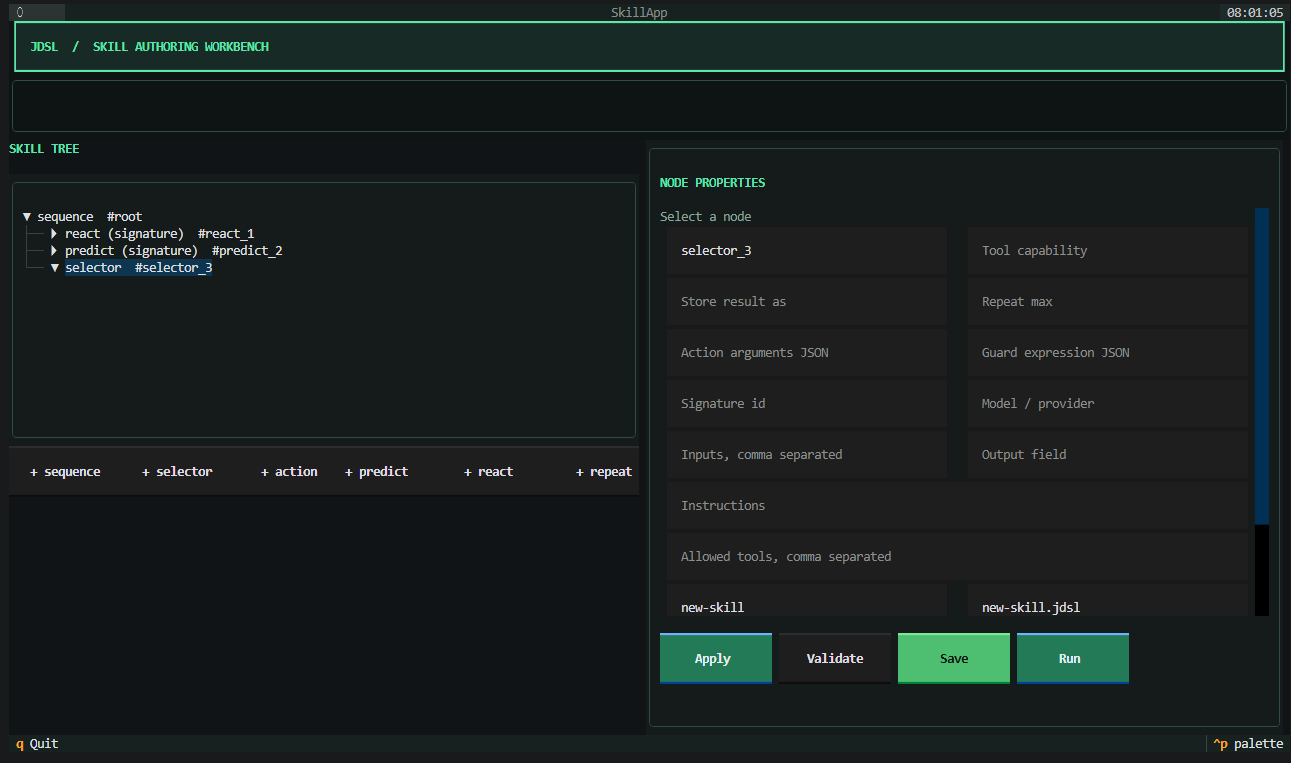
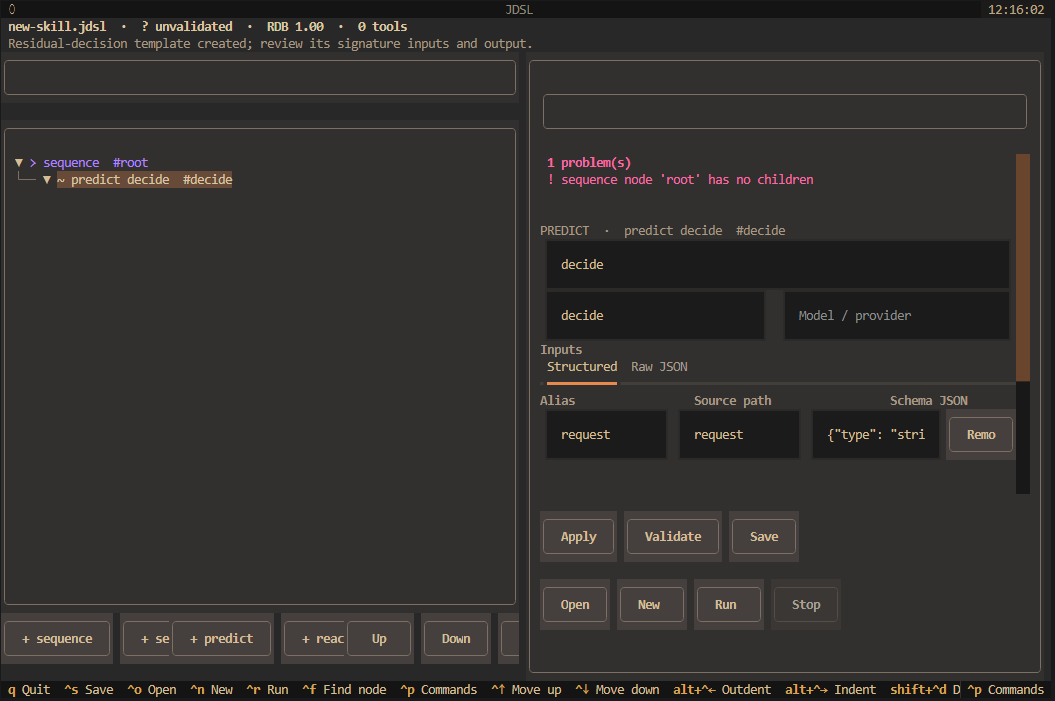
update TUI docs

diff --git a/test/test_tui.py b/test/test_tui.py
@@ -7,9 +7,10 @@ import hashlib
 
 import pytest
 
-from jdsl.ir import IRAction, IRGuard, IRPredict, IRSequence, Signature, SignatureInput, SignatureOutput
-from jdsl.tui.commands import WorkbenchCommands
+from jdsl.ir import IRAction, IRPredict, IRSequence, Signature, SignatureInput, SignatureOutput
+from jdsl.package import ToolContract, ToolEffects
 from jdsl.tui import SkillApp
+from jdsl.tui.commands import WorkbenchCommands
 from jdsl.tui.settings import TUISettings
 
 
@@ -93,6 +94,21 @@ def test_tui_starts_in_authoring_workspace():
     asyncio.run(exercise())
 
 
+def test_command_palette_binding_is_registered():
+    assert ("ctrl+p", "command_palette", "Commands") in SkillApp.BINDINGS
+
+
+def test_tui_shows_resize_warning_below_minimum_terminal_size():
+    async def exercise() -> None:
+        async with SkillApp().run_test(size=(79, 23)) as pilot:
+            warning = pilot.app.query_one("#resize-warning")
+            assert warning.styles.display == "block"
+            assert pilot.app.skill_workbench.styles.display == "none"
+            assert "80 x 24" in str(warning.render())
+
+    asyncio.run(exercise())
+
+
 def test_tui_shows_validation_status():
     async def exercise() -> None:
         async with SkillApp().run_test() as pilot:
@@ -103,10 +119,39 @@ def test_tui_shows_validation_status():
     asyncio.run(exercise())
 
 
+def test_validation_shows_non_blocking_quality_hints():
+    async def exercise() -> None:
+        async with SkillApp().run_test() as pilot:
+            workbench = pilot.app.skill_workbench
+            workbench.tool_contracts["delete_customer"] = ToolContract(
+                logical_id="delete_customer",
+                effects=ToolEffects(read_only=False, destructive=True, idempotent=False),
+            )
+            workbench.skill_ir.root.children_.append(
+                IRAction(type="action", id="delete", tool="delete_customer")
+            )
+
+            assert workbench.validate_skill()
+
+            rendered = str(pilot.app.query_one("#skill-problems").render())
+            assert "Quality hints" in rendered
+            assert "Destructive action 'delete' has no earlier guard" in rendered
+
+            workbench.skill_ir.signatures["unused"] = Signature(id="unused")
+            assert not workbench.validate_skill()
+            rendered = str(pilot.app.query_one("#skill-problems").render())
+            assert "Signature 'unused' is unused" in rendered
+            assert "has no declared inputs" in rendered
+            assert workbench.valid is False
+
+    asyncio.run(exercise())
+
+
 def test_validate_button_updates_status():
     async def exercise() -> None:
         async with SkillApp().run_test() as pilot:
-            await pilot.click("#validate-skill")
+            workbench = pilot.app.skill_workbench
+            workbench.validate_skill()
             status = pilot.app.query_one("#skill-status")
             assert "Validation failed" in str(status.render())
 
@@ -153,10 +198,35 @@ def test_repeat_child_can_be_removed_and_ids_stay_unique():
 
 def test_workbench_preferences_persist(monkeypatch, tmp_path):
     monkeypatch.setenv("XDG_CONFIG_HOME", str(tmp_path))
-    settings = TUISettings(reduced_motion=True, ascii_glyphs=False)
+    settings = TUISettings(
+        reduced_motion=True,
+        ascii_glyphs=False,
+        run_inputs={"skill.jdsl": {"customer_id": "cust-7"}},
+    )
     settings.save()
 
     assert TUISettings.load() == settings
+
+
+def test_run_inputs_load_saved_values_for_current_skill():
+    async def exercise() -> None:
+        async with SkillApp().run_test() as pilot:
+            workbench = pilot.app.skill_workbench
+            workbench.app.settings.run_inputs[workbench._run_input_key()] = {"customer_id": "cust-7"}
+            workbench.skill_ir.root.children_.append(
+                IRAction(
+                    type="action",
+                    id="lookup",
+                    tool="lookup",
+                    arguments={"customer_id": {"ref": "customer_id"}},
+                )
+            )
+
+            workbench._refresh_run_inputs()
+
+            assert pilot.app.query_one("#run-input-value-0").value == "cust-7"
+
+    asyncio.run(exercise())
 
 
 def test_run_confirms_tools_and_executes_in_worker(monkeypatch, tmp_path):

diff --git a/docs/tui.md b/docs/tui.md
@@ -1,18 +1,28 @@
 # JDSL TUI
 
-The TUI currently focuses on authoring skills. It edits the restricted Behavior
-IR used by `.jdsl` packages; harness capture and compilation remain available
-through their separate CLI and APIs.
+The TUI is the primary authoring surface for building and validating restricted
+Behavior IR packages. It covers the day-to-day flow of creating a skill, editing
+node structure and properties, validating that the tree remains coherent, and
+running a tool-backed skill in a safe, traceable way.
 
 <p align="center">
-	<img src="tui.png" alt="JDSL skill authoring TUI" width="960" />
+  <img src="tui.png" alt="JDSL skill authoring TUI" width="960" />
 </p>
 
-The workbench keeps the tree visible on the left and the selected node's
-properties on the right. The properties form scrolls independently on smaller
-terminals.
+## Workbench overview
 
-## Start
+The workbench is laid out around a few clear regions:
+
+- a tree view on the left showing the current skill structure,
+- a property inspector on the right for the selected node,
+- a validation and status area for warnings and recovery hints,
+- a run panel for tool imports, inputs, and execution tracing,
+- a command palette and keyboard bindings for fast editing.
+
+The app retains a compact terminal-first layout, so it is designed to work well
+in real terminals without wasting vertical space on oversized chrome.
+
+## Start the TUI
 
 Install the optional TUI dependency:
 
@@ -28,35 +38,122 @@ uv sync
 uv run --extra tui jdsl tui
 ```
 
-## Author a Skill
+## Author a skill
 
-Launching `jdsl tui` opens the skill editor directly. Select a node and
-configure its properties, then add children from the node palette. The
-editor supports sequence, selector, action, guard, predict, react, and repeat
-nodes. Predict and react leaves expose their signature inputs, output,
-instructions, model/provider hint, and react tool set.
+Launching `jdsl tui` opens a blank or previously opened skill directly into the
+workbench. From there you can:
 
-Inspector changes apply after a short pause. **Validate** runs the same
-structural checks used by the package loader. **Save** writes a portable package
-and loads it again to verify the serialized artifact. **Open** loads a verified
-package, and **New** starts a blank skill; both prompt before discarding dirty
-edits. The output contains restricted IR and capability contracts, not arbitrary
-Python code.
+- select a node and edit its id, type, tools, guards, model hints, and metadata,
+- add children from the node palette or command palette,
+- reorder, indent, outdent, duplicate, and copy/paste subtrees,
+- review validation warnings and structural quality hints before saving.
 
-**Run** accepts a Python tools module defining `TOOLS` and an optional
-`PREDICATES` mapping, plus comma-separated `key=value` inputs. The workbench
-asks before importing a tools module and remembers approval by file path and
-content hash. Runs execute in a worker, with progress and node status streamed
-to the trace panel. Tool arguments and results are not printed in that log.
+Supported node types include sequence, selector, action, guard, predict, react,
+and repeat. Predict and react nodes expose signature-related metadata, provider
+hints, output names, instructions, and tool sets in the inspector.
 
-`Ctrl+S` saves, `Ctrl+O` opens, `Ctrl+N` creates a skill, `Ctrl+R` runs,
-`Ctrl+Z` undoes, and `Ctrl+Shift+Z` redoes. `Ctrl+M` toggles reduced motion;
-`Ctrl+G` switches ASCII-safe and Unicode node glyphs. Truecolor terminals are
-recommended (`COLORTERM=truecolor`).
+The **New** action offers four starting points: a blank skill, lookup then act,
+model decision, and guarded write. The inspector changes with the selected node;
+action arguments, guard expressions, signatures, and run inputs have structured
+editors with a **Raw JSON** view for values that need direct editing.
 
-Harness capture and compilation remain available through the commands documented
-in [Harness Usage](harness_usage.md). They are intentionally outside this TUI
-while the skill authoring workflow is being developed.
+Use **Definitions** to edit each logical tool capability's description,
+arguments, and effect (`read-only`, `write`, or `destructive`). Its Signatures
+tab shows declared signatures and where they are used. Edit signature details
+from the inspector of a predict or react node.
+
+## Save, open, and new flows
+
+The app is designed around safe editing and recovery:
+
+- **Save** writes a portable `.jdsl` package and reloads it to confirm the
+  serialized artifact remains valid,
+- **Open** loads a verified package,
+- **New** creates one of the available templates,
+- unsaved changes prompt before discard or close,
+- recently opened packages are available in the workbench,
+- a recovery draft is autosaved while editing and can be restored after an
+  interrupted session.
+
+The output is restricted Behavior IR and capability contracts rather than raw
+Python logic, so the package structure stays intentionally constrained.
+
+## Validation and quality checks
+
+The TUI runs the same structural checks used by the package loader, and keeps
+validation feedback visible in the inspector while editing. Checks include:
+
+- malformed subtree checks,
+- missing or invalid node fields,
+- capability and signature consistency warnings,
+- quality hints, such as a destructive action without an earlier guard.
+
+Validation errors prevent saving or running the package. Quality hints are
+reported separately so they can inform editing without acting as structural
+validation failures.
+
+## Run and trace execution
+
+**Run** accepts a Python tools module exposing `TOOLS` and an optional
+`PREDICATES` mapping. Inputs are generated from unresolved blackboard refs and
+can be edited as key/value fields or raw JSON. Input values are remembered for
+the current skill.
+
+Before importing the module, the workbench asks for approval and displays its
+path and SHA-256 digest. Approval is remembered for that path and exact content;
+changing the file requires a new approval. Runs execute in a worker thread so
+the UI remains responsive. The run panel shows progress, node status, and trace
+summaries, but does not log tool arguments or results. The final blackboard is
+shown with common secret patterns redacted.
+
+Enable **Dry run** to report intended tool calls without invoking the tools.
+The approved module is still imported, so dry run is not a sandbox and the
+module itself must be trusted. **Stop** requests cancellation between runtime
+operations.
+
+## Security and trust model
+
+The TUI requires explicit consent before importing a local tools module and
+rechecks its content digest after approval. This is a trust prompt, not process
+isolation: imported Python code runs with the user's permissions. Only approve
+modules you trust. Packages contain restricted Behavior IR and capability
+contracts; they do not bundle arbitrary Python tool implementations.
+
+## Keyboard and commands
+
+The command palette is available with `Ctrl+P`. It includes node creation,
+validation, definitions, package actions, dry-run toggle, and recent packages.
+The main keyboard bindings are:
+
+| Shortcut | Action |
+| --- | --- |
+| `Ctrl+S` | Save |
+| `Ctrl+O` | Open |
+| `Ctrl+N` | New from template |
+| `Ctrl+R` | Run |
+| `Escape` | Stop run |
+| `Ctrl+F` | Find node by ID or type |
+| `Ctrl+Up` / `Ctrl+Down` | Move among siblings |
+| `Ctrl+Alt+Left` / `Ctrl+Alt+Right` | Outdent / indent |
+| `Ctrl+Shift+D` | Duplicate subtree |
+| `Ctrl+Shift+C` / `Ctrl+Shift+V` | Copy / paste subtree |
+| `Ctrl+Z` / `Ctrl+Shift+Z` | Undo / redo |
+| `Ctrl+P` | Open command palette |
+| `Ctrl+M` | Toggle reduced motion |
+| `Ctrl+G` | Switch ASCII and Unicode glyphs |
+| `F1` | Open help and shortcuts |
+| `q` | Quit |
+
+The workbench requires a terminal at least 80 columns by 24 rows. If the
+terminal is smaller, it displays a resize warning instead of the editor.
+
+## Implementation notes
 
 The app, theme, settings, run panel, trust dialog, and workbench are grouped in
-`jdsl/tui/`. `jdsl.tui_skill` remains as a compatibility import for older callers.
+`jdsl/tui/`. `jdsl.tui_skill` remains as a compatibility import for older
+callers, and the workbench remains intentionally scoped to authoring rather than
+capture-console orchestration.
+
+Harness capture and compilation remain available through the commands documented
+in [Harness Usage](harness_usage.md). They are intentionally separate from the
+TUI authoring workflow while the skill editor continues to evolve.
